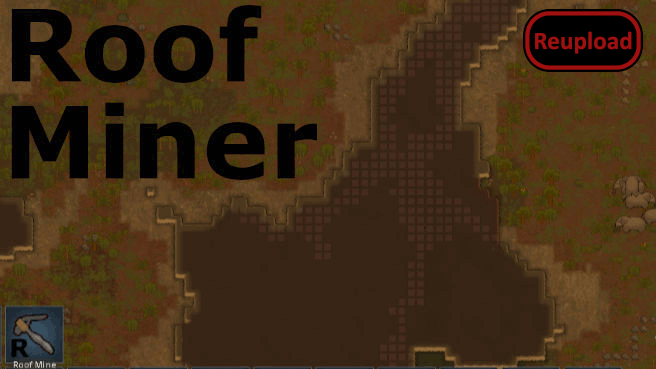
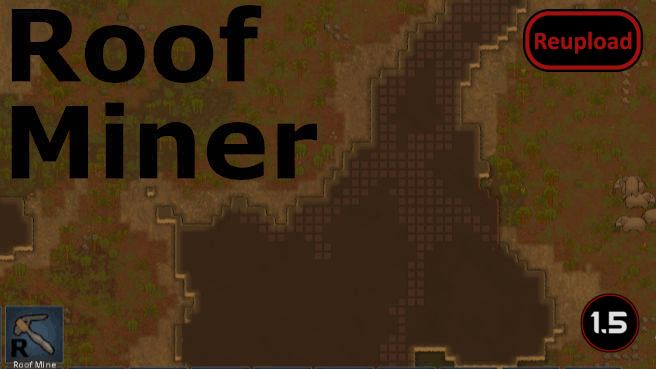
Mod updated for 1.5 and passed autotests Used DeepL to update translations for ChineseSimplified, French, German

Changed region(s): [[0.8841, 0.7751, 0.9756, 0.9539]]

diff --git a/README.md b/README.md
@@ -26,11 +26,13 @@ Thanks to Toasteh and Ogliss and the previous developers of Veinminer which this
 
 -  See if the the error persists if you just have this mod and its requirements active.
 -  If not, try adding your other mods until it happens again.
--  Post your error-log using https://steamcommunity.com/workshop/filedetails/?id=818773962]HugsLib and command Ctrl+F12
+-  Post your error-log using https://steamcommunity.com/workshop/filedetails/?id=818773962]HugsLib or the standalone https://steamcommunity.com/sharedfiles/filedetails/?id=2873415404]Uploader and command Ctrl+F12
 -  For best support, please use the Discord-channel for error-reporting.
 -  Do not report errors by making a discussion-thread, I get no notification of that.
 -  If you have the solution for a problem, please post it to the GitHub repository.
+-  Use https://github.com/RimSort/RimSort/releases/latest]RimSort to sort your mods
 
 
 
+https://steamcommunity.com/sharedfiles/filedetails/changelog/2240071250]![Image](https://img.shields.io/github/v/release/emipa606/Roofminer?label=latest%20version&style=plastic&color=9f1111&labelColor=black)
 
